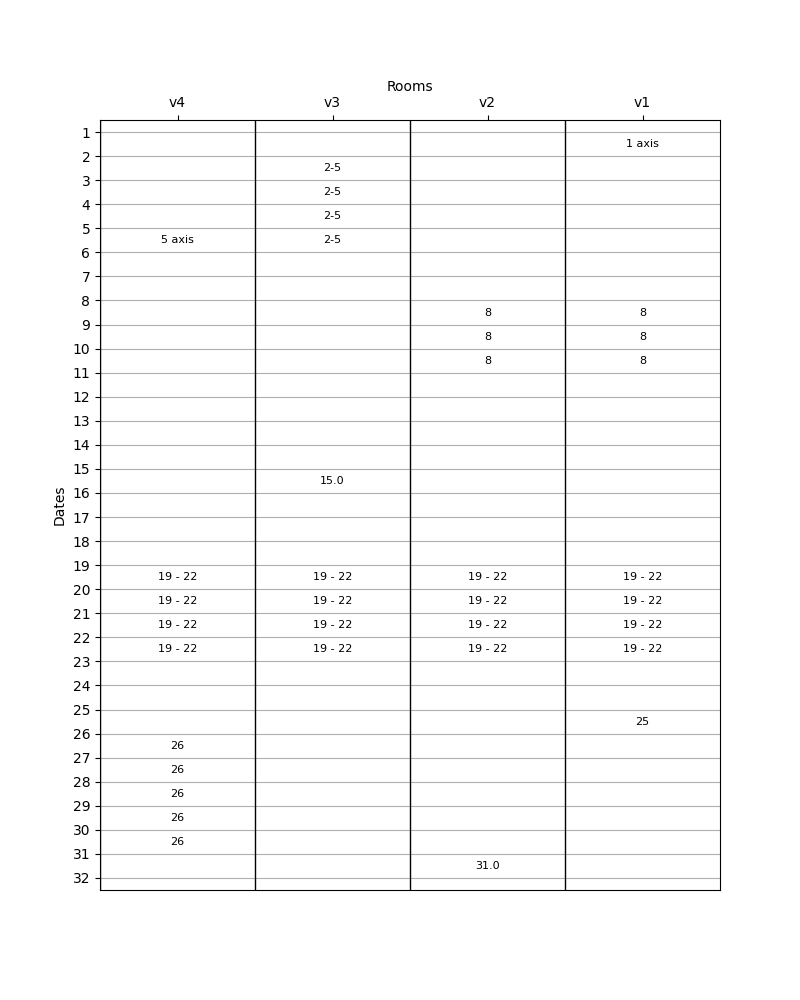
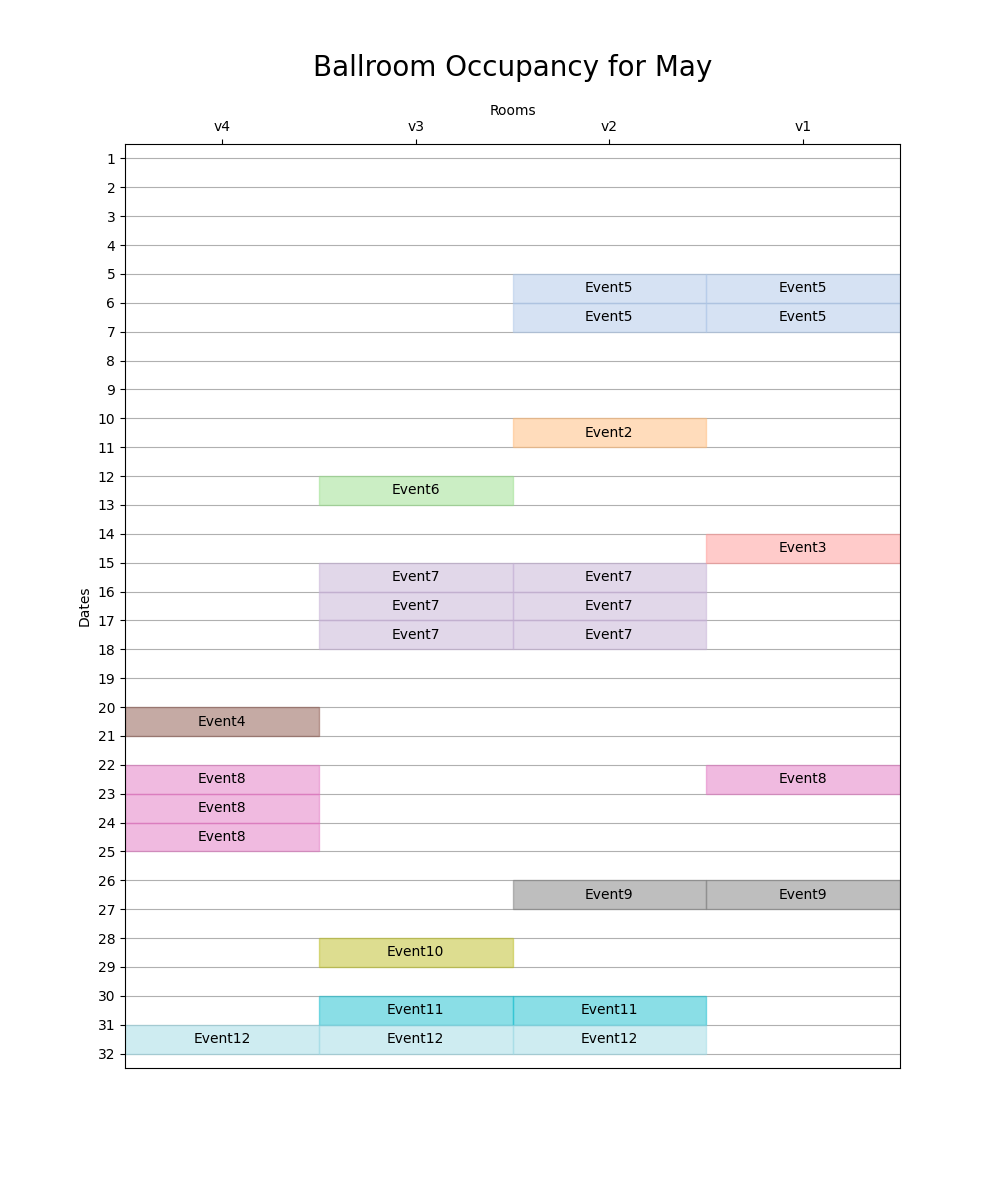
archive before refactor to Plotly

diff --git a/visualization.py b/visualization.py
@@ -1,48 +1,91 @@
 import matplotlib.pyplot as plt
-import numpy as np
+import matplotlib.patches as patches
 import pandas as pd
+import numpy as np
 
 
 def visualize_calendar(calendar_df, month):
-    fig, ax = plt.subplots(figsize=(8, 10))  # Adjust as necessary for your display
-
-    room_positions = np.arange(len(calendar_df.columns)) + 0.5
-    ax.set_xticks(room_positions)
+    fig, ax = plt.subplots(figsize=(10, 12))
+    # Set the title at the top of the figure
+    plt.title(f'Ballroom Occupancy for {month}', fontsize=20, pad=20)
+    # Set room positions and labels
+    room_positions = {room: index for index, room in enumerate(calendar_df.columns)}
+    ax.set_xticks(np.arange(len(calendar_df.columns)) + 0.5)
     ax.set_xticklabels(calendar_df.columns)
-
-    # Adjust the room positions if necessary
     ax.set_xlim(0, len(calendar_df.columns))
-
-    # Set the y-axis for the dates
+    # Set y-ticks to show dates at the center of each row
     ax.set_yticks(np.arange(len(calendar_df.index)) + 0.5)
-    ax.set_yticklabels(calendar_df.index[::-1])  # Reverse the order to have 1 at the top
-
-    # Adjust the date positions if necessary
+    ax.set_yticklabels(reversed(calendar_df.index))
     ax.set_ylim(0, len(calendar_df.index))
-
+    # Grid and labels
     ax.set_axisbelow(True)
     ax.yaxis.grid(True)
-
     ax.xaxis.tick_top()
     ax.xaxis.set_label_position('top')
-
-    # Plot room dividers
-    for pos in room_positions - 0.5:
-        ax.axvline(x=pos, color='black', linewidth=1)
-
-    # Fill in the events
-    # Fill in the events
-    for room_index, room in enumerate(calendar_df.columns):
-        for day, event in calendar_df[room].items():  # Iterate through each day and event
-            if pd.notna(event):
-                # Calculate the y position based on the day (index), since the y-ticks are reversed
-                text_y_position = len(calendar_df.index) - day  # Subtract the day from the length to reverse
-                ax.text(room_index + 0.5, text_y_position, event, ha='center', va='center', fontsize=8)
-
     ax.set_xlabel('Rooms')
     ax.set_ylabel('Dates')
 
-    # Add the month in a larger font size at the bottom of the plot
-    plt.text(0.5, -0.1, month, ha='center', va='center', fontsize=24, transform=ax.transAxes)
+    # Generate a color map for events
+    unique_events = pd.unique(calendar_df.values.ravel())
+    colors = plt.cm.get_cmap('tab20', len(unique_events))
+    event_colors = {event: colors(i) for i, event in enumerate(unique_events) if pd.notna(event)}
 
+# This is version 3
+    # ... [unchanged parts of your code] ...
+
+    # Draw colored backgrounds for events
+    for room_index, room in enumerate(calendar_df.columns):
+        for day in calendar_df.index:
+            event = calendar_df.at[day, room]
+            if pd.notna(event):
+                # Adjust the y-coordinate by adding 0.5 to shift the event rectangle up to align with the grid
+                rect_y = len(calendar_df.index) - day + 0.5
+                color = event_colors.get(event, 'lightgrey')
+                rect = patches.Rectangle((room_index, rect_y - 1), 1, 1, color=color, alpha=0.5)
+                ax.add_patch(rect)
+                # Center the text within the shifted rectangle
+                ax.text(room_index + 0.5, rect_y - 0.5, event, ha='center', va='center', fontsize=10)
+
+    # ...
+
+    # ... [rest of the plotting code] ...
+    # Month label
+    # plt.text(0.5, -0.05, month, fontsize=20, transform=ax.transAxes, ha='center', va='center')
     plt.show()
+
+
+# Create an example DataFrame structure with some events
+calendar_df_example = pd.DataFrame({
+    'v4': [np.nan] * 32,
+    'v3': [np.nan] * 32,
+    'v2': [np.nan] * 32,
+    'v1': [np.nan] * 32
+}, index=range(1, 33))
+calendar_df_example.at[10, 'v2'] = 'Event2'
+calendar_df_example.at[14, 'v1'] = 'Event3'
+calendar_df_example.at[20, 'v4'] = 'Event4'
+calendar_df_example.at[5, 'v1'] = 'Event5'
+calendar_df_example.at[5, 'v2'] = 'Event5'
+calendar_df_example.at[6, 'v1'] = 'Event5'
+calendar_df_example.at[6, 'v2'] = 'Event5'
+calendar_df_example.at[12, 'v3'] = 'Event6'
+calendar_df_example.at[15, 'v2'] = 'Event7'
+calendar_df_example.at[15, 'v3'] = 'Event7'
+calendar_df_example.at[16, 'v2'] = 'Event7'
+calendar_df_example.at[16, 'v3'] = 'Event7'
+calendar_df_example.at[17, 'v2'] = 'Event7'
+calendar_df_example.at[17, 'v3'] = 'Event7'
+calendar_df_example.at[22, 'v1'] = 'Event8'
+calendar_df_example.at[22, 'v4'] = 'Event8'
+calendar_df_example.at[23, 'v4'] = 'Event8'
+calendar_df_example.at[24, 'v4'] = 'Event8'
+calendar_df_example.at[26, 'v1'] = 'Event9'
+calendar_df_example.at[26, 'v2'] = 'Event9'
+calendar_df_example.at[28, 'v3'] = 'Event10'
+calendar_df_example.at[30, 'v2'] = 'Event11'
+calendar_df_example.at[30, 'v3'] = 'Event11'
+calendar_df_example.at[31, 'v2'] = 'Event12'
+calendar_df_example.at[31, 'v3'] = 'Event12'
+calendar_df_example.at[31, 'v4'] = 'Event12'
+
+visualize_calendar(calendar_df_example, 'May')
